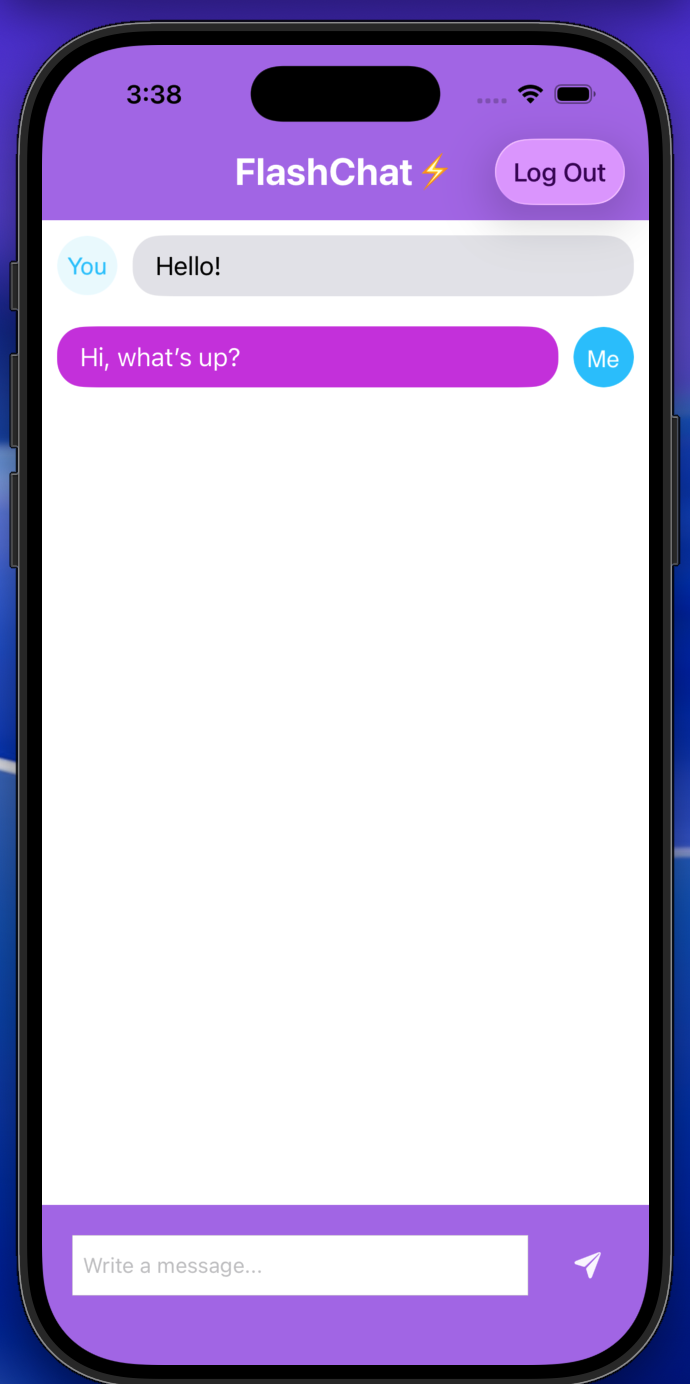
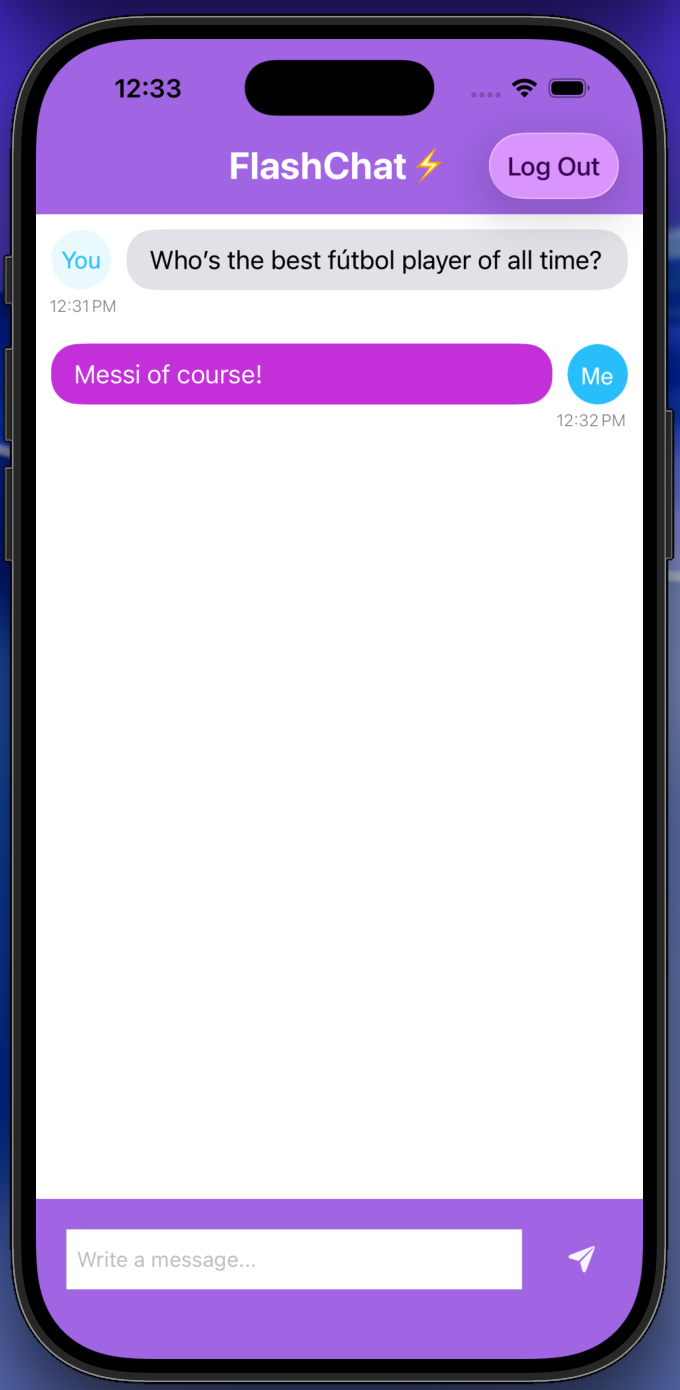
Added message timestamps with sender-based alignment 📲

Changed region(s): [[0.0, 0.0, 1.0, 1.0], [0.8338, 0.901, 0.8647, 0.9321]]

diff --git a/Flash Chat iOS13/Views/MessageCell.swift b/Flash Chat iOS13/Views/MessageCell.swift
@@ -6,6 +6,8 @@ class MessageCell: UITableViewCell {
     @IBOutlet weak var label: UILabel!
     @IBOutlet weak var rightAvatar: UIImageView!
     @IBOutlet weak var leftAvatar: UIImageView!
+    @IBOutlet weak var rightTimestampLabel: UILabel!
+    @IBOutlet weak var leftTimestampLabel: UILabel!
     
     override func awakeFromNib() {
         super.awakeFromNib()
@@ -31,21 +33,33 @@ class MessageCell: UITableViewCell {
     
     func configure(with message: Message, currentUserEmail: String) {
         let isMe = message.sender == currentUserEmail
-        print("sender:", message.sender, "| currentUser:", currentUserEmail, "| isMe:", isMe)
+        debugLog("sender: \(message.sender) | currentUser: \(currentUserEmail) | isMe: \(isMe)")
         
         label.text = message.body
-
+        
+        // Format the timestamp
+        let formatter = DateFormatter()
+        formatter.timeStyle = .short // "4:20 PM"
+        
         // Hide or show correct avatars
         leftAvatar.isHidden = isMe
         rightAvatar.isHidden = !isMe
+        
+        // Hide or show correct timestamp
+        leftTimestampLabel.isHidden = isMe
+        rightTimestampLabel.isHidden = !isMe
+        
 
         // Bubble colors based on sender
         if isMe {
             messageBubble.backgroundColor = UIColor.systemPurple
             label.textColor = .white
+            rightTimestampLabel.text = formatter.string(from: message.timestamp)
+            
         } else {
             messageBubble.backgroundColor = UIColor.systemGray5
             label.textColor = .black
+            leftTimestampLabel.text = formatter.string(from: message.timestamp)
         }
     }
 }

diff --git a/Flash Chat iOS13/Controllers/ChatViewController.swift b/Flash Chat iOS13/Controllers/ChatViewController.swift
@@ -95,16 +95,11 @@ class ChatViewController: UIViewController {
         }
     }
     
-    
-    
-    
     // function to load messages from Firebase DB
     func loadMessages() {
         
         debugLog("inside loadMessages")
         
-        
-
         db.collection(Constants.FStore.collectionName)
             .order(by: Constants.FStore.dateField)            // make sure messages are ordered
             .addSnapshotListener { [weak self] querySnapshot, error in
@@ -120,9 +115,10 @@ class ChatViewController: UIViewController {
                         for doc in snapshotDocuments {
                             let data = doc.data()
                             if let sender = data[Constants.FStore.senderField] as? String,
-                               let messageBody = data[Constants.FStore.bodyField] as? String {
+                               let messageBody = data[Constants.FStore.bodyField] as? String,
+                               let timestamp = data[Constants.FStore.dateField] as? Timestamp{
 
-                                let newMessage = Message(sender: sender, body: messageBody)
+                                let newMessage = Message(sender: sender, body: messageBody, timestamp: timestamp.dateValue())
                                 self.messages.append(newMessage)
                             }
                         }

diff --git a/Flash Chat iOS13/Message.swift b/Flash Chat iOS13/Message.swift
@@ -11,4 +11,5 @@ import Foundation
 struct Message{
     let sender: String // leomessi@gmail.com
     let body: String
+    let timestamp: Date
 }

diff --git a/README.md b/README.md
@@ -14,7 +14,8 @@ This project demonstrates clean architecture, real-time data syncing using **Fir
 ### 💬 Real-Time Messaging
 - Messages sync instantly using **Firestore Snapshot Listeners**
 - Messages auto-sort by timestamp  
-- Smooth autoscroll to latest message  
+- Smooth autoscroll to latest messagea
+- Timestamps displayed on each message with sender-based alignment  
 
 ### 👤 Sender & Receiver UI
 - Custom `UITableViewCell` showing:
@@ -135,6 +136,8 @@ Using keyboardLayoutGuide to create responsive chat input UX
 Removing CocoaPods and migrating old projects to SPM
 
 Working with Storyboards + XIB-based reusable cells
+
+Implementing dual-label layouts for dynamic UI alignment
 
 ## 🧠 Reliability & Memory Profiling (Xcode Instruments)
 
